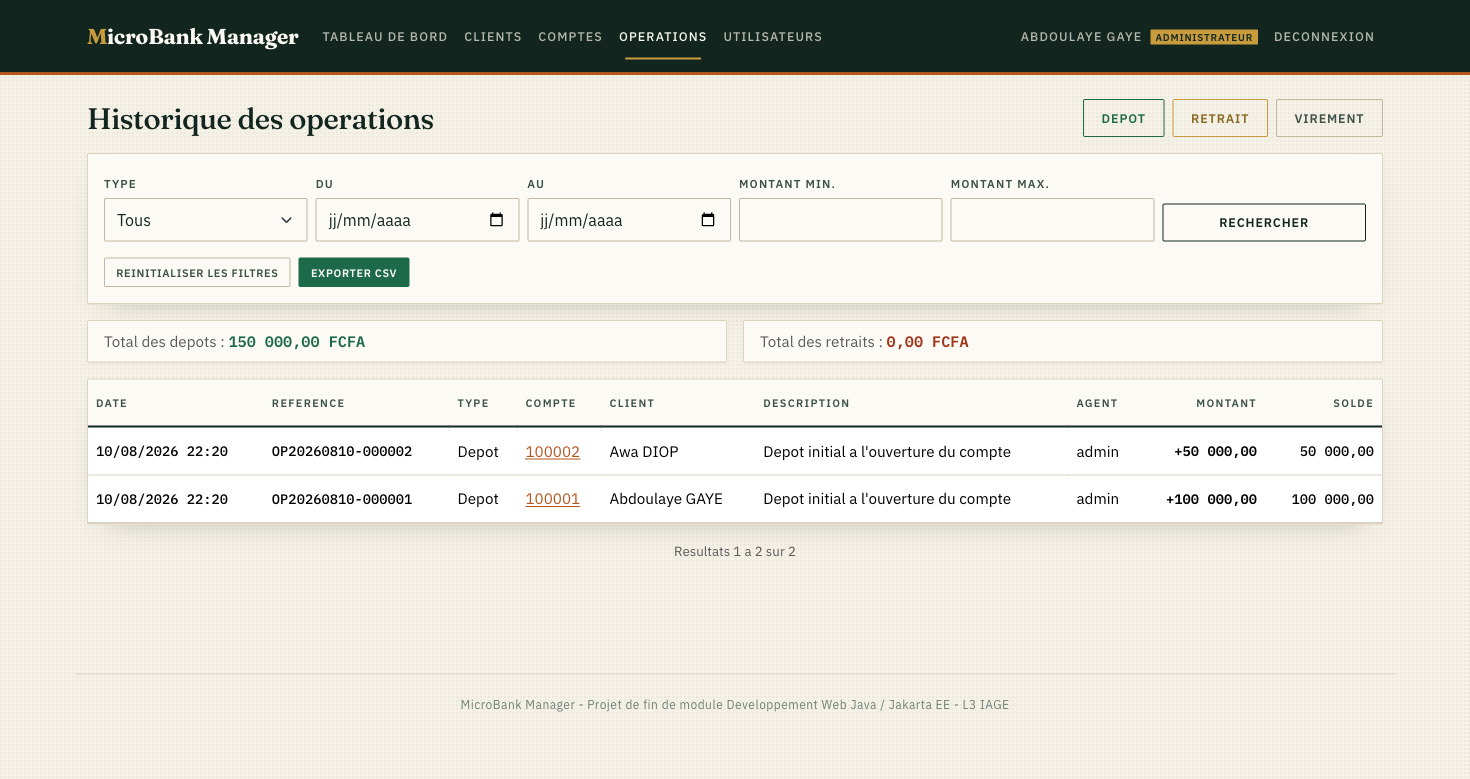
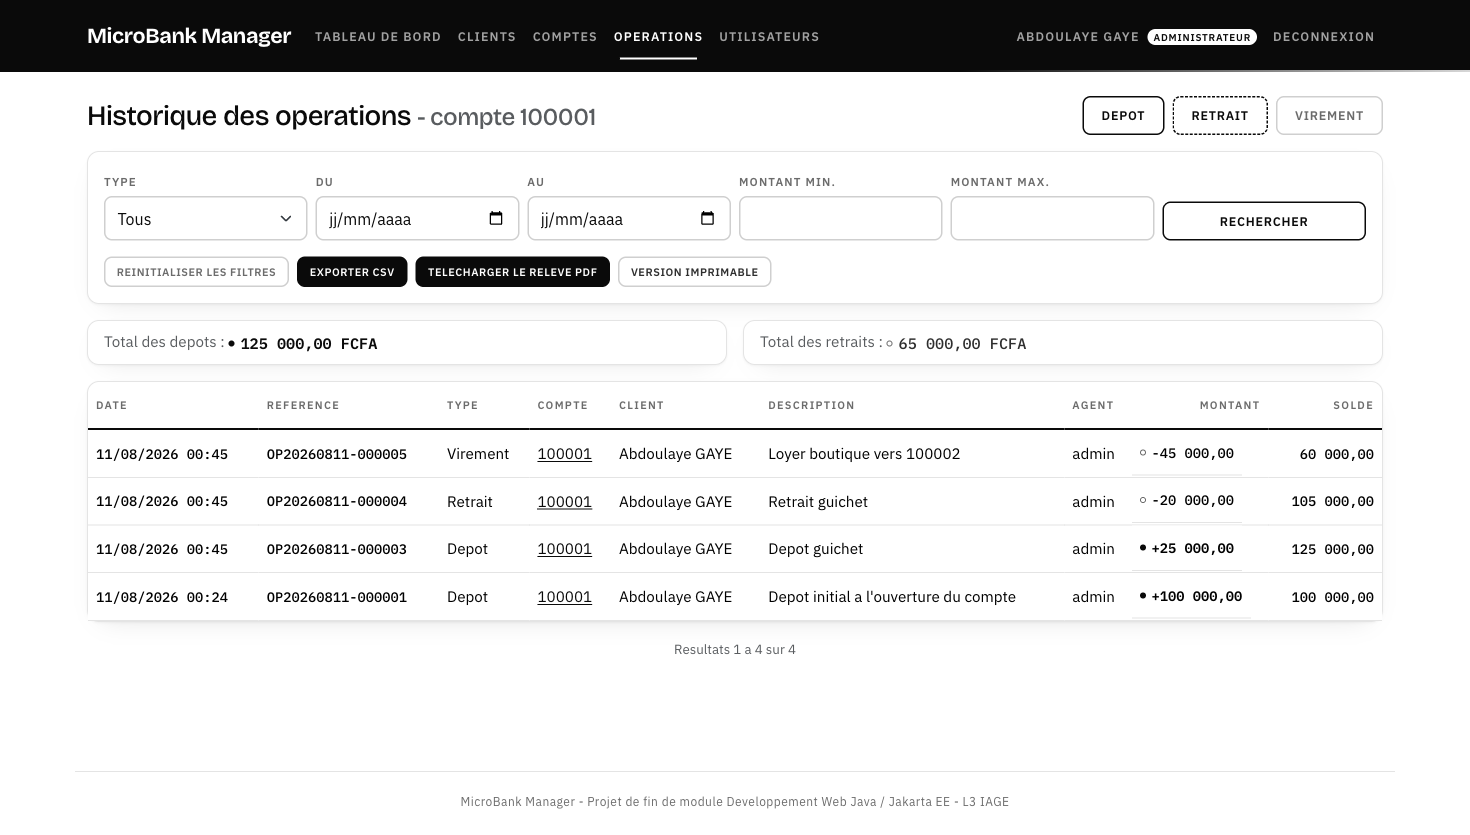
045-remplacer-les-captures-du-readme-par-le-design-noir-et-blanc

diff --git a/README.md b/README.md
@@ -199,7 +199,7 @@ src/main/java/sn/isi/iage/microbank/
 src/main/webapp/
 ├── assets/
 │   ├── css/      Bootstrap 5.3, microbank.css (identite visuelle), polices.css
-│   ├── fonts/    Fraunces et IBM Plex embarques (licence SIL OFL 1.1)
+│   ├── fonts/    Bricolage Grotesque et IBM Plex embarques (licence SIL OFL 1.1)
 │   └── js/       Bootstrap bundle
 └── WEB-INF/
     ├── web.xml           Sessions, pages d'erreur, declaration du taglib
@@ -238,14 +238,18 @@ src/main/webapp/
 Bootstrap 5.3 fournit la grille et les composants ; `assets/css/microbank.css` pose
 l'identite visuelle par-dessus, sans modifier le balisage des JSP.
 
-Parti pris : **un registre comptable edite**, pas un tableau de bord generique.
+Parti pris : **strictement noir et blanc**, pas un tableau de bord generique. Le sens
+(credit/debit, actif/bloque, action normale/destructive) se lit a la forme — plein,
+contour, pointille ou hachure — jamais a une teinte.
 
 | Choix | Raison |
 |---|---|
-| Fond papier chaud, encre vert foret, accent terre cuite | Identite sobre et institutionnelle |
-| Titres en Fraunces, texte en IBM Plex Sans | Une serif de caractere, une sans technique pour la lecture |
-| Montants, dates et references en IBM Plex Mono | Chiffres tabulaires : les colonnes s'alignent comme dans un livre de comptes |
-| Vert pour les credits, rouge hachure pour les debits | Le sens d'un mouvement se lit sans lire le libelle |
+| Palette noir / blanc / gris uniquement | Aucune couleur nulle part dans le CSS ; identite nette et institutionnelle |
+| Pastille pleine = credit, pastille creuse = debit | Le sens d'un mouvement se lit sans recourir a la couleur |
+| Bouton plein = depot, pointille = retrait, hachure = suppression | Le style du bouton porte le sens de l'action |
+| Titres en Bricolage Grotesque, texte en IBM Plex Sans | Un grotesque affirme pour la hierarchie, une sans technique pour la lecture |
+| Montants, dates et references en IBM Plex Mono | Chiffres tabulaires : les colonnes s'alignent comme dans un tableau de donnees |
+| Panneau noir / panneau blanc sur la page de connexion | Contraste graphique fort, esprit produit plutot que formulaire administratif |
 | Polices, CSS et JS embarques dans le WAR | La demonstration fonctionne sans connexion internet |
 
 Les animations se limitent a l'ouverture de page et sont desactivees si le systeme
